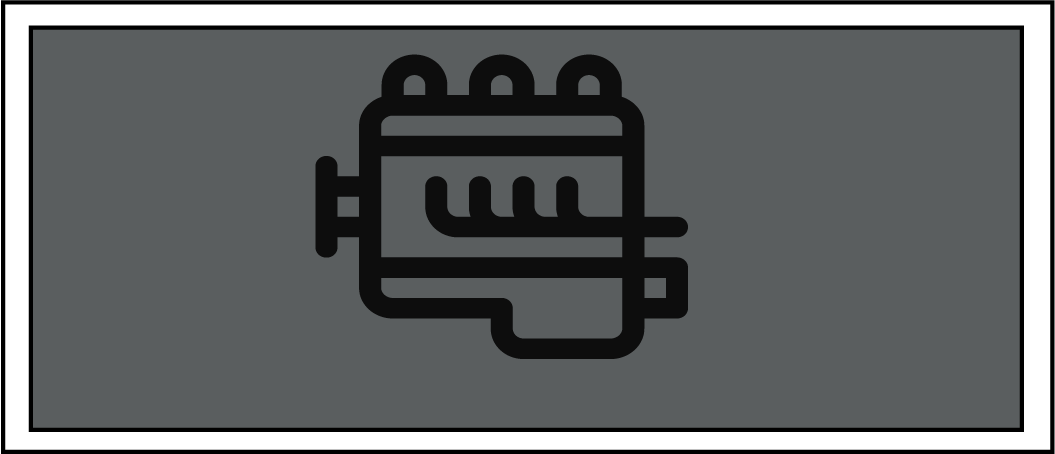
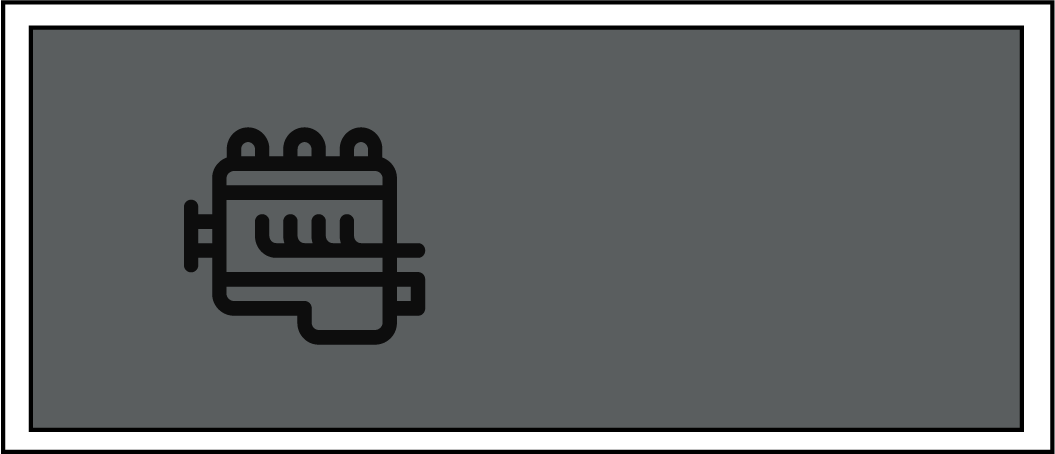
ay la llevamos ...

Changed region(s): [[0.1517, 0.1233, 0.6673, 0.8018]]

diff --git a/src/controller/StationController.java b/src/controller/StationController.java
@@ -7,7 +7,7 @@ import java.awt.*;
 
 public abstract class StationController extends Canvas {
     protected String name;
-    private String image = "";
+    protected String image = "";
     protected int position;
     protected int qtyServices;
     protected int time1, time2;
@@ -18,10 +18,6 @@ public abstract class StationController extends Canvas {
         setData();
     }
 
-    public void paint(Graphics g){
-        g.drawImage(Rutinas.AjustarImagen(image,getWidth(),getHeight()).getImage(),0,0,null);
-
-    }
     private void setData(){
         switch (position){
             case 1: name = "Chasis";
@@ -32,12 +28,12 @@ public abstract class StationController extends Canvas {
             case 2: name = "Motor-Transmision";
                 time1 = 6;
                 time2 = 4;
-                robots = new Robot[4];
+                robots = new Robot[6];
                 image = "engine.png";
                 break;
             case 3: name = "Carroceria";
                 time1 = 10;
-                robots = new Robot[4];
+                robots = new Robot[3];
                 image = "bodywork.png";
                 break;
             case 4: name = "Interiores";

diff --git a/src/model/Station.java b/src/model/Station.java
@@ -4,13 +4,52 @@ import controller.StationController;
 
 import java.awt.*;
 
+/*
+@startuml
+ class Station extends StationController implements Runnable{
+
+ - plusy : int
+ - plusx : int
+
+ + Station (pos : int)
+ + paint () : void
+ + run () : void
+
+}
+@enduml
+ */
 public class Station extends StationController implements Runnable{
+
+    private int plusy;
+    private int plusx;
+
 
     public Station(int pos){
         super(pos);
 
+        plusy = 0;
+        plusx = 0;
+
         for(int i = 0; i<robots.length; i ++)
             robots[i] = new Robot(this);
+    }
+
+    public void paint(Graphics g){
+        g.drawImage(Rutinas.AjustarImagen(image,getWidth(),getHeight()).getImage(),0,0,null);
+
+        for(int i = 1; i <= robots.length; i++) {
+            g.drawImage(Rutinas.AjustarImagen("robot.png", 20, 20).getImage(), 135- plusx, 15+ plusy, null);
+
+            if(i == 2 || i == 4) {
+                plusy = 0;
+                plusx += 20;
+            }
+            else
+                plusy += 20;
+        }
+
+        plusy = 0;
+        plusx = 0;
     }
 
 

diff --git a/src/view/AssemblerView.java b/src/view/AssemblerView.java
@@ -17,7 +17,6 @@ public class AssemblerView extends JFrame {
 
     private Line lines[];
     private Station stations[];
-
     public AssemblerView(){
         setTitle("Ensambladora de automoviles TOYOTO");
         doInterface();
@@ -30,13 +29,19 @@ public class AssemblerView extends JFrame {
         model = new AssemblerModel();
         controller = new AssemblerController(this,model);
 
-        this.setLayout(new GridLayout(2,6));
-        System.out.println(lines.length);
-        stations[0]  = new Station(1);
-        stations[1]  = new Station(2);
+        this.setLayout(new GridLayout(0,6));
 
-        add(stations[0]);
-        add(stations[1]);
+        for(int i = 0; i < 6 ; i++) {
+            stations[i] = new Station(i + 1);
+            add(stations[i]);
+        }
+
+
+        for(int i = 0; i < lines.length; i++){
+            lines[i] = new Line();
+            for(int k = 0; k < 6 ; k++)
+            add(lines[i].getStatus(k));
+        }
 
         setVisible(true);
     }

diff --git a/src/model/Line.java b/src/model/Line.java
@@ -13,6 +13,8 @@ public class Line  {
         Arrays.fill(station,false);
         spot = 0;
 
+        status = new Status[6];
+
         for( int i = 0; i<status.length; i++)
         status[i] = new Status();
     }
@@ -20,13 +22,6 @@ public class Line  {
     public Status getStatus(int i){
         return status[i];
     }
-    public void go(){
-       station[spot] = true;
-    }
 
-    public void stop(){
-        station[spot] = false;
-        spot++;
-    }
 
 }

diff --git a/src/model/Status.java b/src/model/Status.java
@@ -3,7 +3,7 @@ package model;
 import java.awt.*;
 
 public class Status extends Canvas {
-    String url = "spot.png";
+    private String url = "spot.png";
 
     public Status(String url){
         this.url = url;
